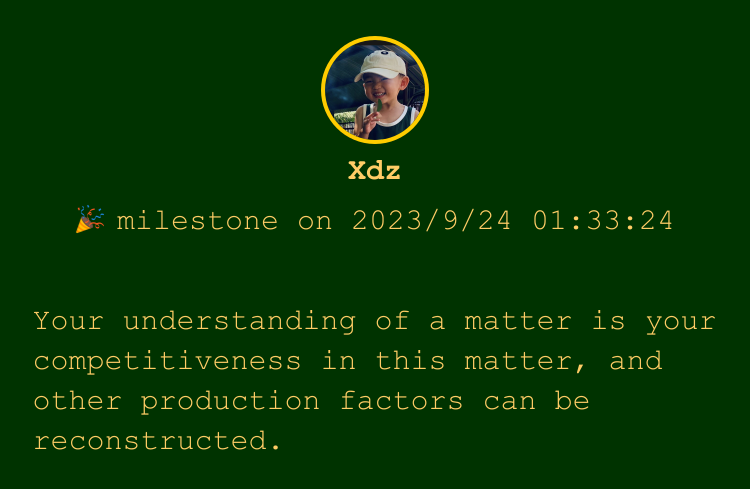
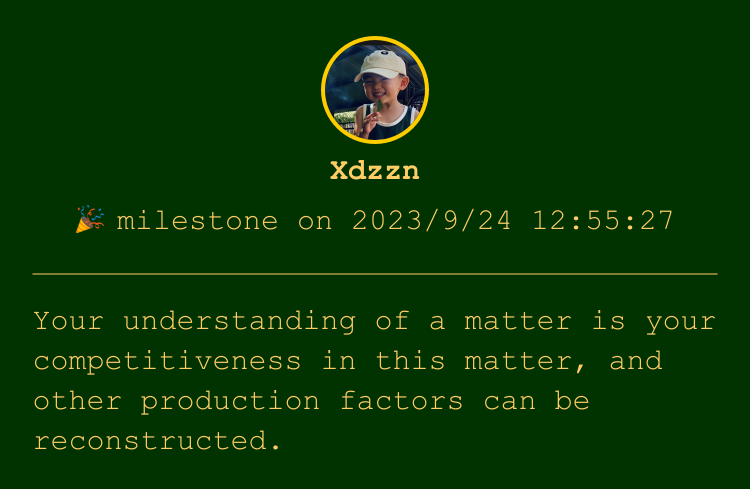
feat(split line): support draw header split line

diff --git a/src/draw.js b/src/draw.js
@@ -158,7 +158,6 @@ class Drawer {
     let words = this.content.split(' ')
     let currentLine = 0
     let idx = 1
-    console.log(this.headerHeight)
     while (words.length > 0 && idx <= words.length) {
       let str = words.slice(0, idx).join(' ')
       let w = ctx.measureText(str).width
@@ -321,6 +320,21 @@ class Drawer {
       }
     })
   }
+  async drawHeaderLine() {
+    console.log(this.headerHeight, this.x)
+    const { ctx, x, width } = this
+    ctx.save()
+    ctx.strokeStyle = '#FFCC66'
+    // ctx.moveTo(x,this.headerHeight)
+    // NOTE这个是整个canvas宽度
+    // ctx.moveTo(0, this.headerHeight)
+    // ctx.lineTo(width, this.headerHeight)
+    // NOTE这个是最大内容宽度
+    ctx.moveTo(x, this.headerHeight)
+    ctx.lineTo(width - x, this.headerHeight)
+    ctx.stroke()
+    return this
+  }
 }
 
 const draw = ({ content, anyPhotoConfig }) => {
@@ -331,6 +345,7 @@ const draw = ({ content, anyPhotoConfig }) => {
     .then(drawer => drawer.drawAvatar())
     .then(drawer => drawer.drawAuthor())
     .then(drawer => drawer.drawTime())
+    .then(drawer => drawer.drawHeaderLine())
     .then(drawer => drawer.drawing())
     .then(drawer => drawer.generatePng())
 }
